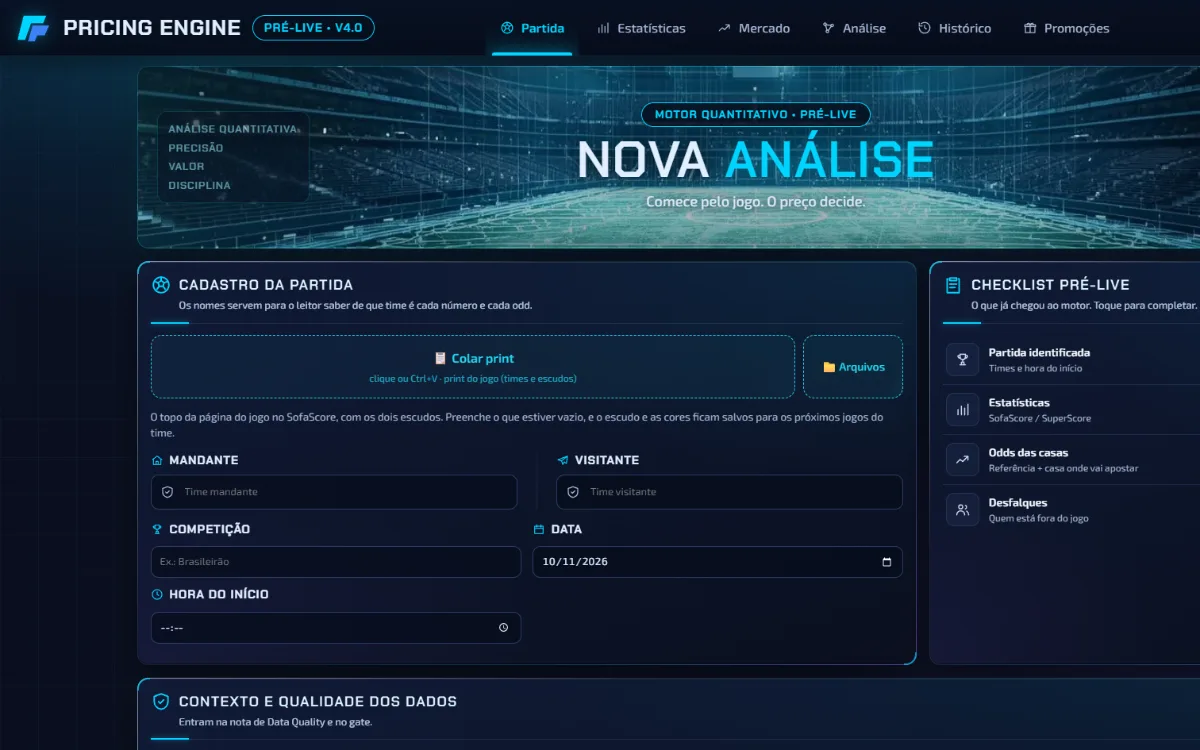
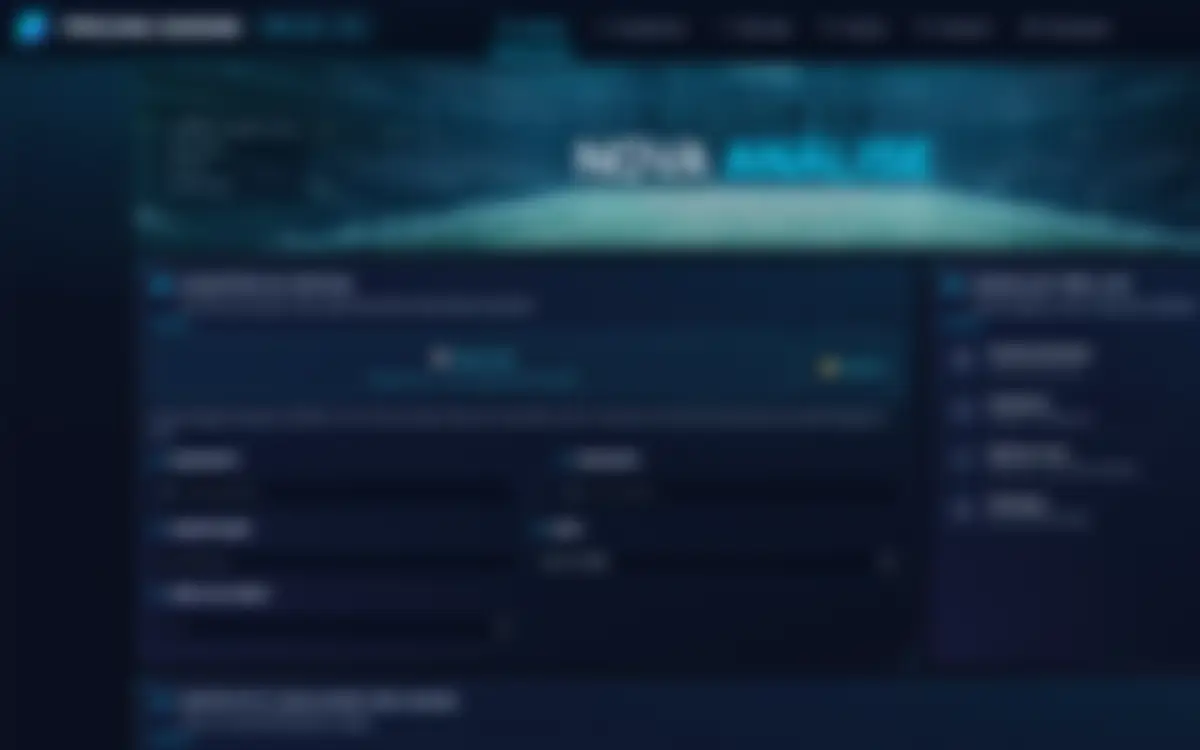
Portfólio: Análise de Fut vira projeto privado
Sem link, capa desfocada e etiqueta "Projeto privado" (tipo interno com
etiqueta própria). A captura original fica fora do public/ e do git.

diff --git a/src/content.ts b/src/content.ts
@@ -230,6 +230,8 @@ export interface ItemPortfolio {
   /** Link do app em funcionamento, quando o projeto tem um (mostra o botão "Abrir o app") */
   linkApp?: string
   tipo: 'cliente' | 'proprio' | 'demonstracao' | 'interno'
+  /** Troca o texto da etiqueta só deste item (ex.: "Projeto privado" num item 'interno') */
+  etiqueta?: string
   /** Só usado no placeholder em CSS: gradiente de fundo */
   cor?: [string, string]
 }
@@ -298,9 +300,11 @@ export const portfolio: ItemPortfolio[] = [
     titulo: 'Análise de Fut',
     descricao:
       'Motor de análise pré-jogo: cadastro da partida, estatísticas, odds de mercado e um checklist até a decisão.',
+    // Projeto particular, de uso privado: sem link e com capa desfocada.
+    // A captura original fica em _originais/portfolio/ (fora do public/ e fora do git).
     imagem: `${BASE}portfolio/analisefut.webp`,
-    link: 'https://gustavoserafim10.github.io/AnaliseFut/#',
-    tipo: 'proprio',
+    tipo: 'interno',
+    etiqueta: 'Projeto privado',
   },
   {
     titulo: 'QuantifySports',

diff --git a/src/sections/Portfolio.tsx b/src/sections/Portfolio.tsx
@@ -160,7 +160,7 @@ export function Portfolio() {
                   <span
                     className={`absolute bottom-4 left-4 rounded-full px-3 py-1 text-xs font-bold shadow-lg ${estiloEtiqueta[item.tipo]}`}
                   >
-                    {portfolioSecao.etiquetas[item.tipo]}
+                    {item.etiqueta ?? portfolioSecao.etiquetas[item.tipo]}
                   </span>
                 </div>
 
